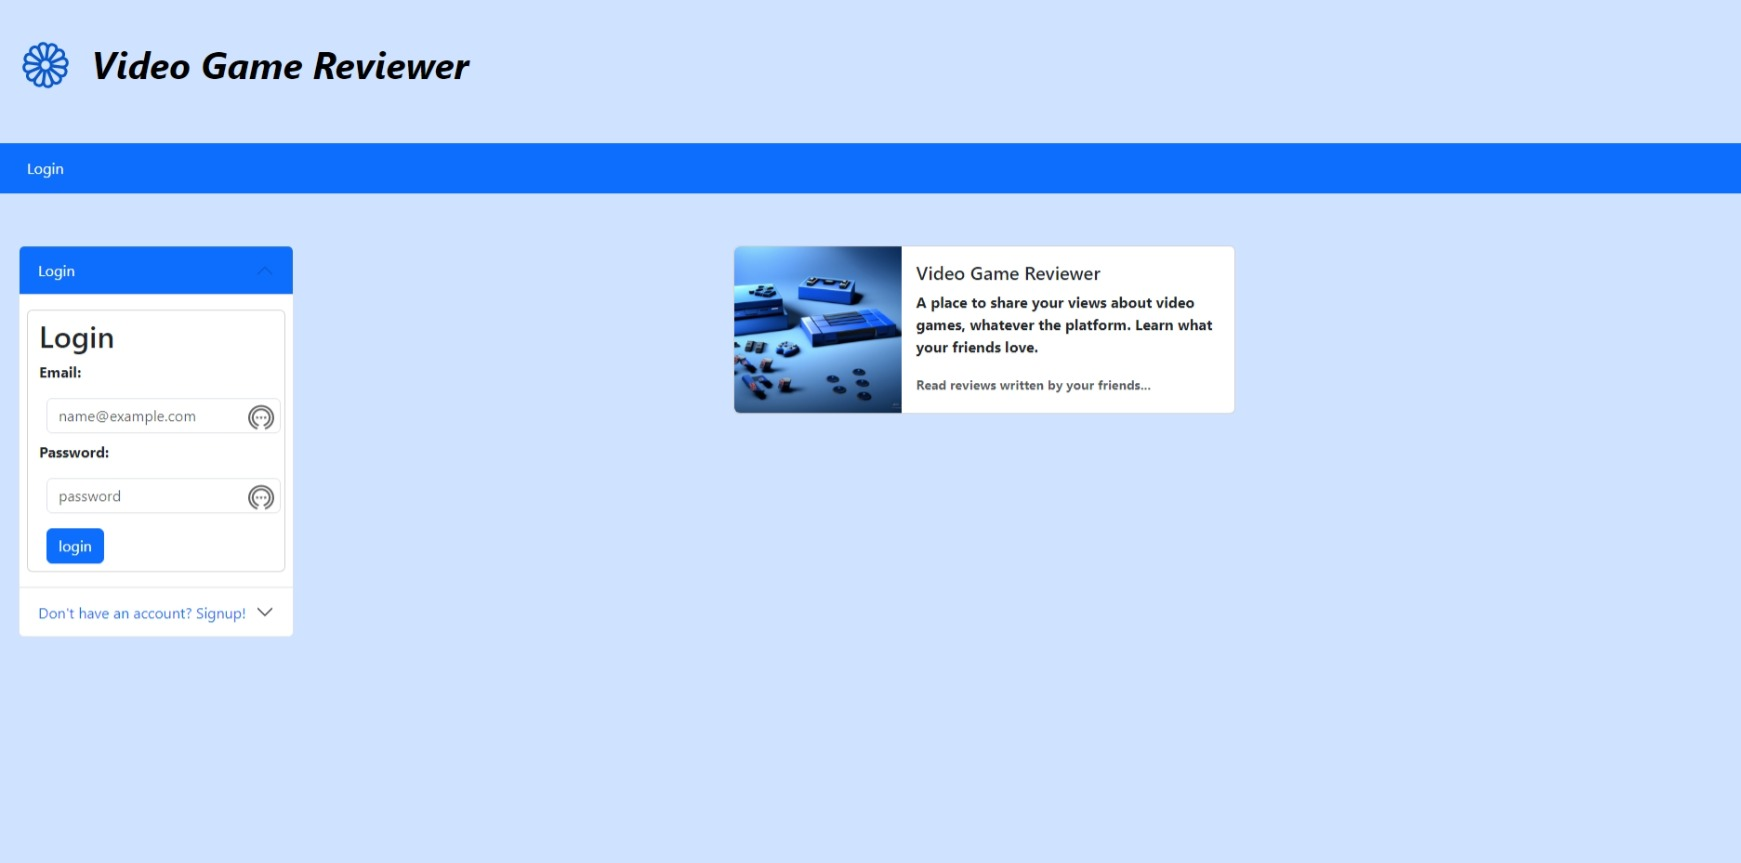
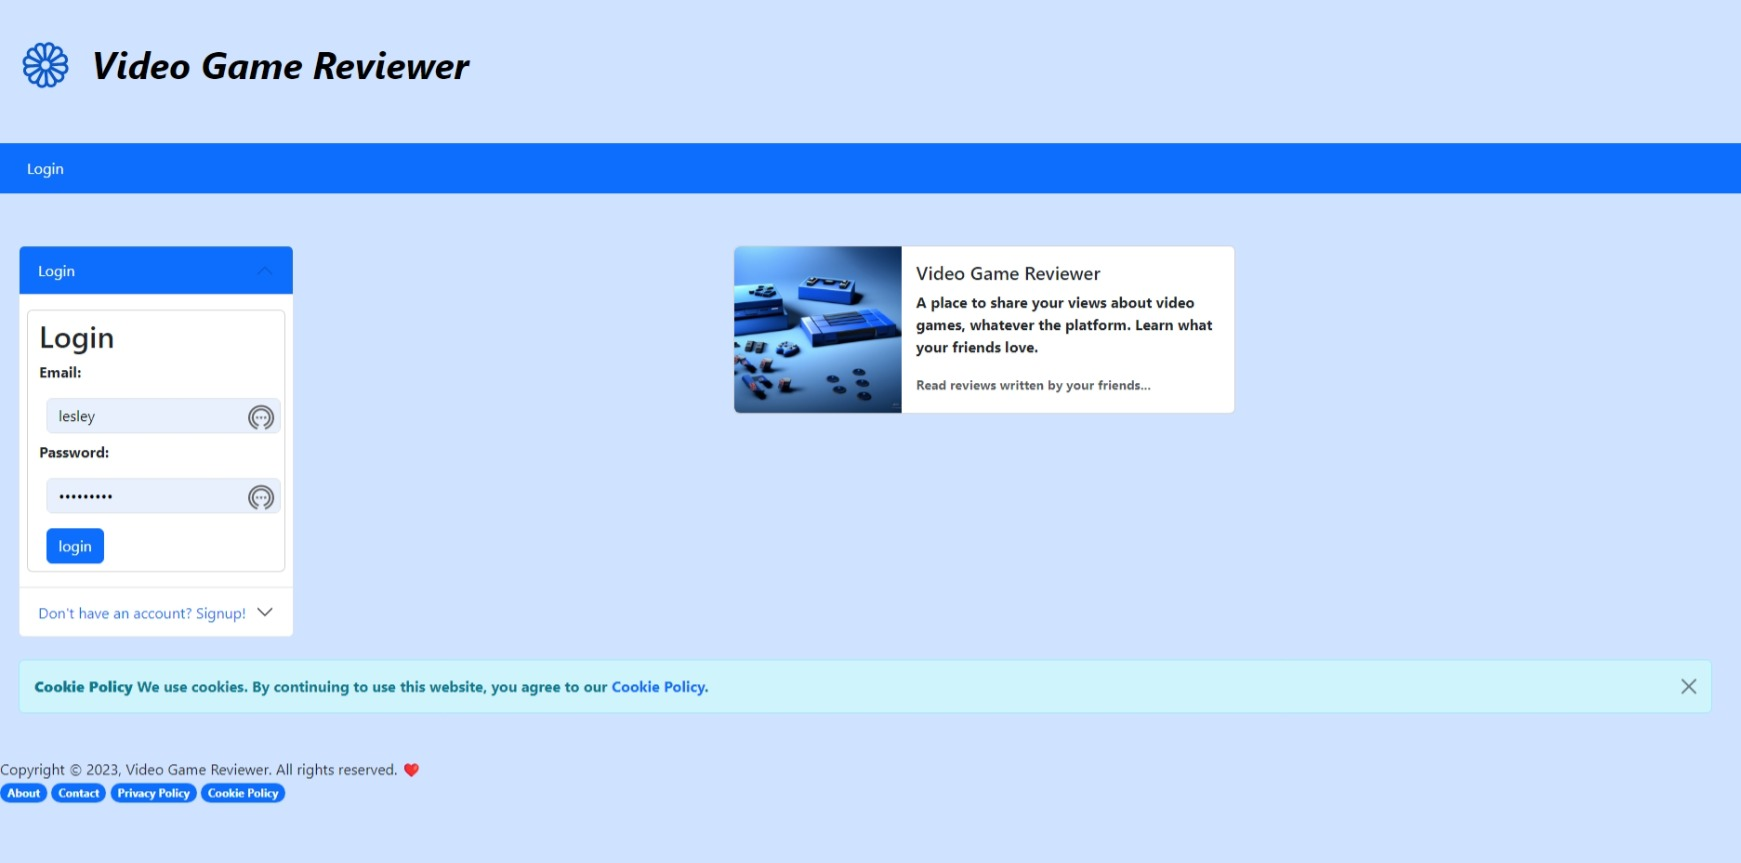
added cooking warning, about,contact,privacy policy, cookie policy, and fixed get one game route to display only platform options that a game didn't already have

diff --git a/controllers/gameRoutes.js b/controllers/gameRoutes.js
@@ -11,6 +11,7 @@ const {
   GamePlatform,
 } = require('../models');
 const withAuth = require('../utils/auth');
+const { Op } = require('sequelize');
 
 // get all games and also get all developers and categories
 router.get('/', withAuth, async (req, res) => {
@@ -49,28 +50,6 @@ router.get('/', withAuth, async (req, res) => {
   }
 });
 
-// router.post('/', withAuth, async (req, res) => {
-//   try {
-//     const newGame = await Game.create({
-//       game_name: req.body.game_name,
-//       developer_id: req.body.developer_id,
-//       category_id: req.body.category_id,
-//       date: req.body.date,
-//     }).catch((err) => {
-//       res.json(err);
-//       return;
-//     });
-//     if (!newGame) {
-//       res.status(404).json({ message: 'Cannot create new game' });
-//       return;
-//     }
-//     res.status(200).json(newGame);
-//   } catch (err) {
-//     console.log(err);
-//     res.status(500).json(err);
-//     return;
-//   }
-// });
 
 // get one game and show all possible platforms 
 router.get('/:id', withAuth, async (req, res) => {
@@ -109,6 +88,12 @@ router.get('/:id', withAuth, async (req, res) => {
           {
             model: Platform,
             attributes: ['platform_name'],
+            // exclude platforms that are already in gamePlatforms.platform_id
+          //   where: {
+          //     id: {
+          //       [Op.notIn]:gamePlatformData.map((gamePlatform) => gamePlatform.platform_id),
+          //       },
+          // },
           },
           {
             model: Game,
@@ -118,21 +103,30 @@ router.get('/:id', withAuth, async (req, res) => {
       // {include: [{ model: User }, { model: Category }],}
     ).catch((err) => {
       res.json(err);
+      console.log(err)
       return;
     });
     if (!gamePlatformData) {
       res.status(404).json({ message: 'no game found with this id!' });
     }
     const gamePlatforms = gamePlatformData.map((gamePlatform) =>
-      gamePlatform.get({ plain: true })
+    gamePlatform.get({ plain: true })
     );
     const game = gameData.get({ plain: true });
-
+    // exclude platforms that are already in gamePlatforms.platform_id
     const platformData = await Platform.findAll({
-    });
-    const platforms = platformData.map((platform) =>
+      where: {
+        id: {
+            [Op.notIn]:gamePlatformData.map((gamePlatform) => gamePlatform.platform_id),
+            },
+        },
+      });
+      
+      const platforms = platformData.map((platform) =>
       platform.get({ plain: true })
       );
+      console.log(platformData.map((platform) => platform.id));
+      console.log(gamePlatformData.map((gamePlatform) => gamePlatform.platform_id));
     res.render('game', {
       game,
       gamePlatforms,

diff --git a/controllers/homeRoutes.js b/controllers/homeRoutes.js
@@ -35,5 +35,24 @@ router.get('/login', (req, res) => {
   res.render('login');
 });
 
+// About route
+router.get('/about', (req, res) => {
+  res.render('about');
+});
+
+// Contact route
+router.get('/contact', (req, res) => {
+  res.render('contact');
+});
+
+// Privacy route
+router.get('/privacy', (req, res) => {
+  res.render('privacy');
+});
+
+// Cookie route
+router.get('/cookie', (req, res) => {
+  res.render('cookie');
+});
 
 module.exports = router;
